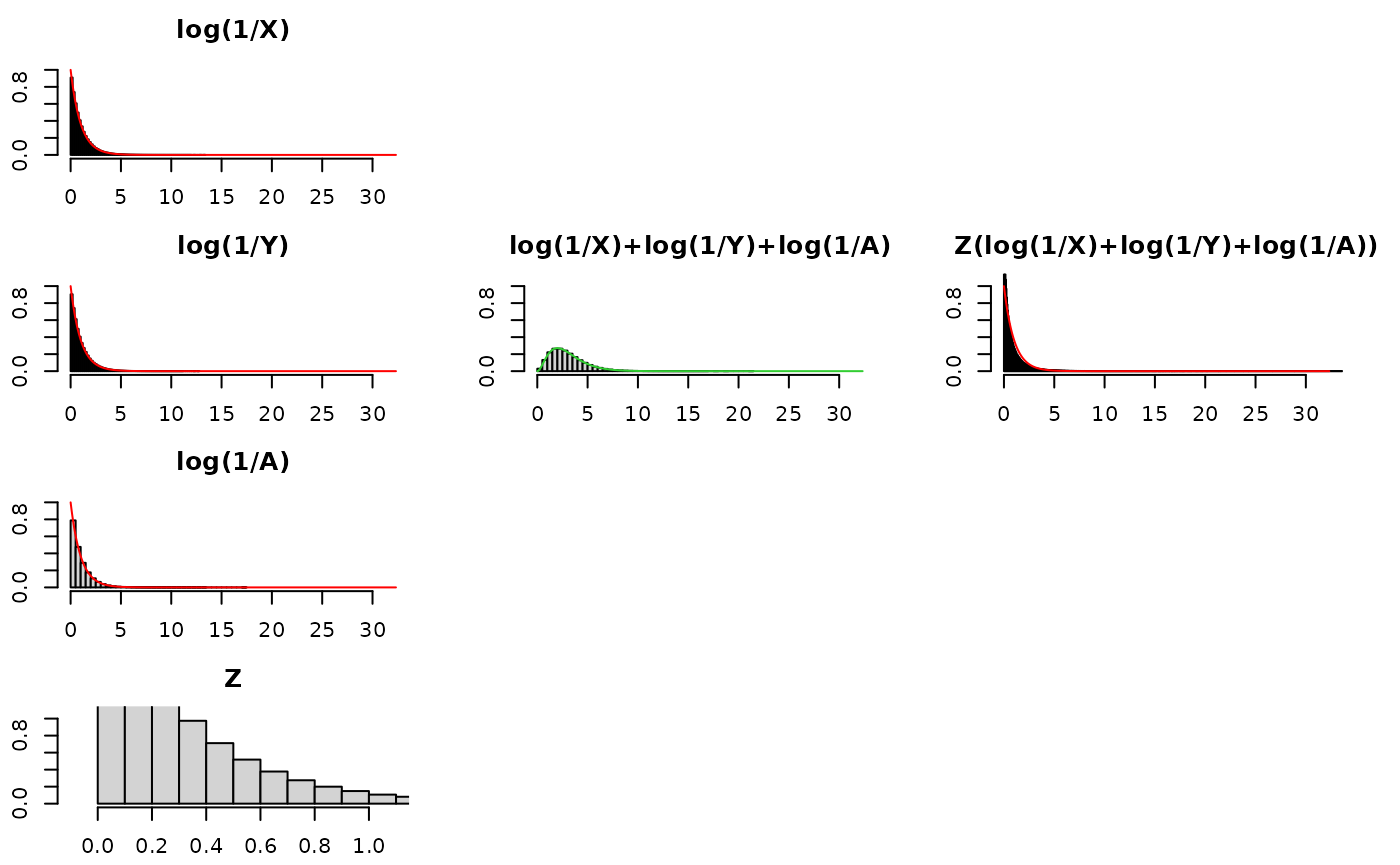
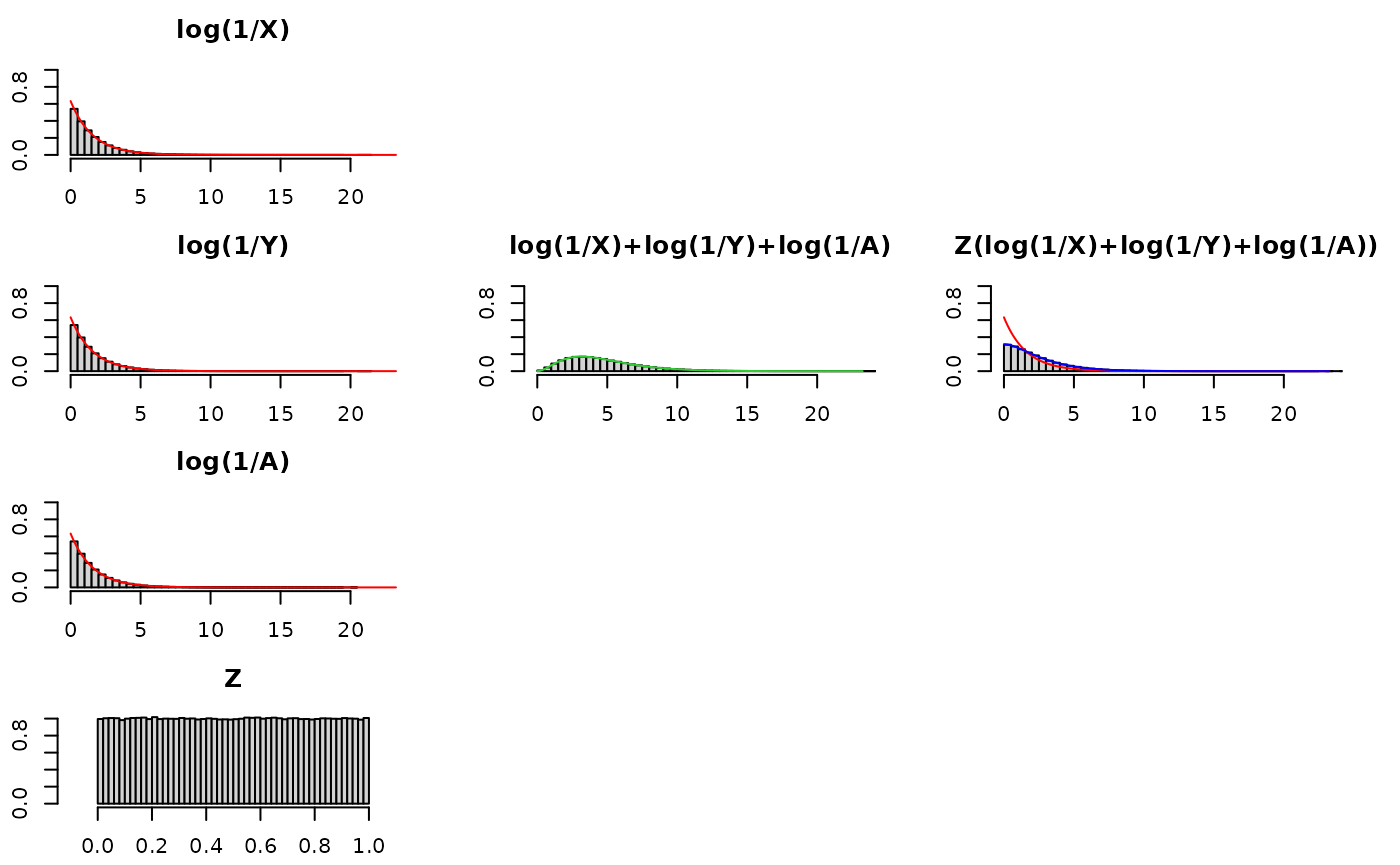
Deploying to gh-pages from @ swihart/mvpd@2e1f89e9200d01a08d54f70d24a79efe4b6bb247 🚀

diff --git a/articles/mvt_mvss_mvcauchy.html b/articles/mvt_mvss_mvcauchy.html
@@ -1,0 +1,158 @@
+<!DOCTYPE html>
+<!-- Generated by pkgdown: do not edit by hand --><html lang="en">
+<head>
+<meta http-equiv="Content-Type" content="text/html; charset=UTF-8">
+<meta charset="utf-8">
+<meta http-equiv="X-UA-Compatible" content="IE=edge">
+<meta name="viewport" content="width=device-width, initial-scale=1, shrink-to-fit=no">
+<title>Why do both the mvt and mvss have a mvcauchy special instance? • mvpd</title>
+<script src="../deps/jquery-3.6.0/jquery-3.6.0.min.js"></script><meta name="viewport" content="width=device-width, initial-scale=1, shrink-to-fit=no">
+<link href="../deps/bootstrap-5.3.1/bootstrap.min.css" rel="stylesheet">
+<script src="../deps/bootstrap-5.3.1/bootstrap.bundle.min.js"></script><link href="../deps/font-awesome-6.5.2/css/all.min.css" rel="stylesheet">
+<link href="../deps/font-awesome-6.5.2/css/v4-shims.min.css" rel="stylesheet">
+<script src="../deps/headroom-0.11.0/headroom.min.js"></script><script src="../deps/headroom-0.11.0/jQuery.headroom.min.js"></script><script src="../deps/bootstrap-toc-1.0.1/bootstrap-toc.min.js"></script><script src="../deps/clipboard.js-2.0.11/clipboard.min.js"></script><script src="../deps/search-1.0.0/autocomplete.jquery.min.js"></script><script src="../deps/search-1.0.0/fuse.min.js"></script><script src="../deps/search-1.0.0/mark.min.js"></script><!-- pkgdown --><script src="../pkgdown.js"></script><meta property="og:title" content="Why do both the mvt and mvss have a mvcauchy special instance?">
+</head>
+<body>
+    <a href="#main" class="visually-hidden-focusable">Skip to contents</a>
+
+
+    <nav class="navbar navbar-expand-lg fixed-top bg-light" data-bs-theme="light" aria-label="Site navigation"><div class="container">
+
+    <a class="navbar-brand me-2" href="../index.html">mvpd</a>
+
+    <small class="nav-text text-muted me-auto" data-bs-toggle="tooltip" data-bs-placement="bottom" title="">0.0.5</small>
+
+
+    <button class="navbar-toggler" type="button" data-bs-toggle="collapse" data-bs-target="#navbar" aria-controls="navbar" aria-expanded="false" aria-label="Toggle navigation">
+      <span class="navbar-toggler-icon"></span>
+    </button>
+
+    <div id="navbar" class="collapse navbar-collapse ms-3">
+      <ul class="navbar-nav me-auto">
+<li class="nav-item"><a class="nav-link" href="../reference/index.html">Reference</a></li>
+<li class="active nav-item dropdown">
+  <button class="nav-link dropdown-toggle" type="button" id="dropdown-articles" data-bs-toggle="dropdown" aria-expanded="false" aria-haspopup="true">Articles</button>
+  <ul class="dropdown-menu" aria-labelledby="dropdown-articles">
+<li><a class="dropdown-item" href="../articles/deep_dive_kolm.html">Deeper Dive: Kolmogorov Distribution, Density, Random Variates</a></li>
+    <li><a class="dropdown-item" href="../articles/intro.html">Introduction and Primer</a></li>
+    <li><a class="dropdown-item" href="../articles/intro1.html">Introduction and Primer II</a></li>
+    <li><a class="dropdown-item" href="../articles/mvt_mvss_mvcauchy.html">Why do both the mvt and mvss have a mvcauchy special instance?</a></li>
+    <li><a class="dropdown-item" href="../articles/xy_to_the_z_part_i.html">(XY)^Z Part I</a></li>
+    <li><a class="dropdown-item" href="../articles/xy_to_the_z_part_ii.html">(XY)^Z Part II</a></li>
+  </ul>
+</li>
+<li class="nav-item"><a class="nav-link" href="../news/index.html">Changelog</a></li>
+      </ul>
+<ul class="navbar-nav">
+<li class="nav-item"><form class="form-inline" role="search">
+ <input class="form-control" type="search" name="search-input" id="search-input" autocomplete="off" aria-label="Search site" placeholder="Search for" data-search-index="../search.json">
+</form></li>
+<li class="nav-item"><a class="external-link nav-link" href="https://github.com/swihart/mvpd/" aria-label="GitHub"><span class="fa fab fa-github fa-lg"></span></a></li>
+      </ul>
+</div>
+
+
+  </div>
+</nav><div class="container template-article">
+
+
+
+
+<div class="row">
+  <main id="main" class="col-md-9"><div class="page-header">
+
+      <h1>Why do both the mvt and mvss have a mvcauchy special instance?</h1>
+                        <h4 data-toc-skip class="author">Bruce J.
+Swihart</h4>
+            
+            <h4 data-toc-skip class="date">2025-05-20</h4>
+      
+      <small class="dont-index">Source: <a href="https://github.com/swihart/mvpd/blob/main/vignettes/articles/mvt_mvss_mvcauchy.Rmd" class="external-link"><code>vignettes/articles/mvt_mvss_mvcauchy.Rmd</code></a></small>
+      <div class="d-none name"><code>mvt_mvss_mvcauchy.Rmd</code></div>
+    </div>
+
+    
+    
+<div class="sourceCode" id="cb1"><pre class="downlit sourceCode r">
+<code class="sourceCode R"><span><span class="kw"><a href="https://rdrr.io/r/base/library.html" class="external-link">library</a></span><span class="op">(</span><span class="va"><a href="https://github.com/swihart/mvpd" class="external-link">mvpd</a></span><span class="op">)</span></span>
+<span></span>
+<span></span>
+<span></span>
+<span></span>
+<span></span>
+<span><span class="va">nu</span> <span class="op">&lt;-</span> <span class="fl">2</span></span>
+<span><span class="va">xdom</span> <span class="op">&lt;-</span> <span class="fu"><a href="https://rdrr.io/r/base/seq.html" class="external-link">seq</a></span><span class="op">(</span><span class="fl">0</span>,<span class="fl">4</span>,<span class="fl">.01</span><span class="op">)</span></span>
+<span><span class="va">yran</span> <span class="op">&lt;-</span> <span class="fu">invgamma</span><span class="fu">::</span><span class="fu"><a href="https://rdrr.io/pkg/invgamma/man/invgamma.html" class="external-link">dinvgamma</a></span><span class="op">(</span><span class="va">xdom</span>, <span class="va">nu</span><span class="op">/</span><span class="fl">2</span>, <span class="va">nu</span><span class="op">/</span><span class="fl">2</span><span class="op">)</span></span>
+<span><span class="va">zran</span> <span class="op">&lt;-</span> <span class="fu">VGAMextra</span><span class="fu">::</span><span class="fu"><a href="https://rdrr.io/pkg/VGAMextra/man/invweibullUC.html" class="external-link">dinvweibull</a></span><span class="op">(</span><span class="va">xdom</span>, scale<span class="op">=</span><span class="fl">1</span>, shape<span class="op">=</span><span class="fl">1</span><span class="op">)</span> <span class="co">##</span></span>
+<span></span>
+<span><span class="fu"><a href="https://rdrr.io/r/graphics/par.html" class="external-link">par</a></span><span class="op">(</span>mfrow<span class="op">=</span><span class="fu"><a href="https://rdrr.io/r/base/c.html" class="external-link">c</a></span><span class="op">(</span><span class="fl">1</span>,<span class="fl">1</span><span class="op">)</span><span class="op">)</span></span>
+<span><span class="fu"><a href="https://rdrr.io/r/graphics/plot.default.html" class="external-link">plot</a></span><span class="op">(</span><span class="va">xdom</span>,<span class="va">yran</span>, type<span class="op">=</span><span class="st">"l"</span>, main<span class="op">=</span></span>
+<span>       <span class="st">"black invgamma(1/2,1/2), blue inverse chisquare(1)</span></span>
+<span><span class="st">        black invgamma(1/2,1/2), green S(,,,,) alpha=1</span></span>
+<span><span class="st">       black invgamma(2/2,2/2), red inverse exponential(1)"</span>,</span>
+<span>     ylim<span class="op">=</span><span class="fu"><a href="https://rdrr.io/r/base/c.html" class="external-link">c</a></span><span class="op">(</span><span class="fl">0</span>,<span class="fl">1</span><span class="op">)</span><span class="op">)</span></span>
+<span><span class="fu"><a href="https://rdrr.io/r/graphics/points.html" class="external-link">points</a></span><span class="op">(</span><span class="va">xdom</span>,<span class="va">zran</span>,col<span class="op">=</span><span class="st">"red"</span><span class="op">)</span></span>
+<span></span>
+<span></span>
+<span><span class="va">nu</span> <span class="op">&lt;-</span> <span class="fl">1</span></span>
+<span><span class="va">xdom</span> <span class="op">&lt;-</span> <span class="fu"><a href="https://rdrr.io/r/base/seq.html" class="external-link">seq</a></span><span class="op">(</span><span class="fl">0</span>,<span class="fl">4</span>,<span class="fl">.01</span><span class="op">)</span></span>
+<span><span class="va">yran</span> <span class="op">&lt;-</span> <span class="fu">invgamma</span><span class="fu">::</span><span class="fu"><a href="https://rdrr.io/pkg/invgamma/man/invgamma.html" class="external-link">dinvgamma</a></span><span class="op">(</span><span class="va">xdom</span>, <span class="va">nu</span><span class="op">/</span><span class="fl">2</span>, <span class="va">nu</span><span class="op">/</span><span class="fl">2</span><span class="op">)</span></span>
+<span><span class="va">zran</span> <span class="op">&lt;-</span> <span class="fu">VGAMextra</span><span class="fu">::</span><span class="fu"><a href="https://rdrr.io/pkg/VGAMextra/man/invchisquaredUC.html" class="external-link">dinv.chisq</a></span><span class="op">(</span><span class="va">xdom</span>, <span class="va">nu</span><span class="op">)</span></span>
+<span><span class="va">aran</span> <span class="op">&lt;-</span> <span class="op">{</span><span class="va">alpha</span><span class="op">&lt;-</span><span class="fl">1</span>; <span class="fu">libstable4u</span><span class="fu">::</span><span class="fu"><a href="https://rdrr.io/pkg/libstable4u/man/stable_pdf_and_cdf.html" class="external-link">stable_pdf</a></span><span class="op">(</span><span class="va">xdom</span>,</span>
+<span>                                pars<span class="op">=</span><span class="fu"><a href="https://rdrr.io/r/base/c.html" class="external-link">c</a></span><span class="op">(</span></span>
+<span>                                  alpha <span class="op">=</span> <span class="va">alpha</span><span class="op">/</span><span class="fl">2</span>,</span>
+<span>                                  beta <span class="op">=</span> <span class="fl">1</span>,</span>
+<span>                                  sigma <span class="op">=</span> <span class="fl">2</span><span class="op">*</span><span class="fu"><a href="https://rdrr.io/r/base/Trig.html" class="external-link">cos</a></span><span class="op">(</span><span class="va">pi</span><span class="op">*</span><span class="va">alpha</span><span class="op">/</span><span class="fl">4</span><span class="op">)</span><span class="op">^</span><span class="op">(</span><span class="fl">2</span><span class="op">/</span><span class="va">alpha</span><span class="op">)</span>,</span>
+<span>                                  mu <span class="op">=</span> <span class="fl">0</span><span class="op">)</span>,</span>
+<span>                                parametrization <span class="op">=</span> <span class="fl">1L</span><span class="op">)</span></span>
+<span><span class="op">}</span></span>
+<span></span>
+<span></span>
+<span></span>
+<span><span class="fu"><a href="https://rdrr.io/r/graphics/par.html" class="external-link">par</a></span><span class="op">(</span>mfrow<span class="op">=</span><span class="fu"><a href="https://rdrr.io/r/base/c.html" class="external-link">c</a></span><span class="op">(</span><span class="fl">1</span>,<span class="fl">1</span><span class="op">)</span><span class="op">)</span></span>
+<span><span class="fu"><a href="https://rdrr.io/r/graphics/lines.html" class="external-link">lines</a></span><span class="op">(</span><span class="va">xdom</span>,<span class="va">yran</span>, type<span class="op">=</span><span class="st">"l"</span>, main<span class="op">=</span><span class="st">"black invgamma, blue inverse chisquare"</span><span class="op">)</span></span>
+<span><span class="fu"><a href="https://rdrr.io/r/graphics/points.html" class="external-link">points</a></span><span class="op">(</span><span class="va">xdom</span>,<span class="va">zran</span>,col<span class="op">=</span><span class="st">"blue"</span><span class="op">)</span></span>
+<span><span class="fu"><a href="https://rdrr.io/r/graphics/points.html" class="external-link">points</a></span><span class="op">(</span><span class="va">xdom</span>,<span class="va">aran</span>, col<span class="op">=</span><span class="st">"darkgreen"</span><span class="op">)</span></span>
+<span></span>
+<span><span class="va">nu</span> <span class="op">&lt;-</span> <span class="fl">3</span></span>
+<span><span class="va">yran</span> <span class="op">&lt;-</span> <span class="fu">invgamma</span><span class="fu">::</span><span class="fu"><a href="https://rdrr.io/pkg/invgamma/man/invgamma.html" class="external-link">dinvgamma</a></span><span class="op">(</span><span class="va">xdom</span>, <span class="va">nu</span><span class="op">/</span><span class="fl">2</span>, <span class="va">nu</span><span class="op">/</span><span class="fl">2</span><span class="op">)</span></span>
+<span></span>
+<span><span class="fu"><a href="https://rdrr.io/r/graphics/lines.html" class="external-link">lines</a></span><span class="op">(</span><span class="va">xdom</span>,<span class="va">yran</span>, type<span class="op">=</span><span class="st">"l"</span>, main<span class="op">=</span><span class="st">"black invgamma, blue inverse chisquare"</span><span class="op">)</span></span>
+<span><span class="fu"><a href="https://rdrr.io/r/graphics/points.html" class="external-link">points</a></span><span class="op">(</span><span class="va">xdom</span>,<span class="va">yran</span>,col<span class="op">=</span><span class="st">"purple"</span><span class="op">)</span></span>
+<span></span>
+<span></span>
+<span><span class="va">nu</span> <span class="op">&lt;-</span> <span class="fl">35</span></span>
+<span><span class="va">yran</span> <span class="op">&lt;-</span> <span class="fu">invgamma</span><span class="fu">::</span><span class="fu"><a href="https://rdrr.io/pkg/invgamma/man/invgamma.html" class="external-link">dinvgamma</a></span><span class="op">(</span><span class="va">xdom</span>, <span class="va">nu</span><span class="op">/</span><span class="fl">2</span>, <span class="va">nu</span><span class="op">/</span><span class="fl">2</span><span class="op">)</span></span>
+<span></span>
+<span><span class="fu"><a href="https://rdrr.io/r/graphics/lines.html" class="external-link">lines</a></span><span class="op">(</span><span class="va">xdom</span>,<span class="va">yran</span>, type<span class="op">=</span><span class="st">"l"</span>, main<span class="op">=</span><span class="st">"black invgamma, blue inverse chisquare"</span><span class="op">)</span></span>
+<span><span class="fu"><a href="https://rdrr.io/r/graphics/points.html" class="external-link">points</a></span><span class="op">(</span><span class="va">xdom</span>,<span class="va">yran</span>,col<span class="op">=</span><span class="st">"gold"</span><span class="op">)</span></span>
+<span></span>
+<span><span class="va">nu</span> <span class="op">&lt;-</span> <span class="fl">3500</span></span>
+<span><span class="va">yran</span> <span class="op">&lt;-</span> <span class="fu">invgamma</span><span class="fu">::</span><span class="fu"><a href="https://rdrr.io/pkg/invgamma/man/invgamma.html" class="external-link">dinvgamma</a></span><span class="op">(</span><span class="va">xdom</span>, <span class="va">nu</span><span class="op">/</span><span class="fl">2</span>, <span class="va">nu</span><span class="op">/</span><span class="fl">2</span><span class="op">)</span></span>
+<span></span>
+<span><span class="fu"><a href="https://rdrr.io/r/graphics/lines.html" class="external-link">lines</a></span><span class="op">(</span><span class="va">xdom</span>,<span class="va">yran</span>, type<span class="op">=</span><span class="st">"l"</span>, main<span class="op">=</span><span class="st">"black invgamma, blue inverse chisquare"</span><span class="op">)</span></span>
+<span><span class="fu"><a href="https://rdrr.io/r/graphics/points.html" class="external-link">points</a></span><span class="op">(</span><span class="va">xdom</span>,<span class="va">yran</span>,col<span class="op">=</span><span class="st">"brown"</span><span class="op">)</span></span></code></pre></div>
+<p><img src="mvt_mvss_mvcauchy_files/figure-html/setup-1.png" width="700"></p>
+  </main><aside class="col-md-3"><nav id="toc" aria-label="Table of contents"><h2>On this page</h2>
+    </nav></aside>
+</div>
+
+
+
+    <footer><div class="pkgdown-footer-left">
+  <p>Developed by Bruce Swihart.</p>
+</div>
+
+<div class="pkgdown-footer-right">
+  <p>Site built with <a href="https://pkgdown.r-lib.org/" class="external-link">pkgdown</a> 2.1.2.</p>
+</div>
+
+    </footer>
+</div>
+
+
+
+
+
+  </body>
+</html>

diff --git a/articles/xy_to_the_z_part_i.html b/articles/xy_to_the_z_part_i.html
@@ -36,6 +36,7 @@
 <li><a class="dropdown-item" href="../articles/deep_dive_kolm.html">Deeper Dive: Kolmogorov Distribution, Density, Random Variates</a></li>
     <li><a class="dropdown-item" href="../articles/intro.html">Introduction and Primer</a></li>
     <li><a class="dropdown-item" href="../articles/intro1.html">Introduction and Primer II</a></li>
+    <li><a class="dropdown-item" href="../articles/mvt_mvss_mvcauchy.html">Why do both the mvt and mvss have a mvcauchy special instance?</a></li>
     <li><a class="dropdown-item" href="../articles/xy_to_the_z_part_i.html">(XY)^Z Part I</a></li>
     <li><a class="dropdown-item" href="../articles/xy_to_the_z_part_ii.html">(XY)^Z Part II</a></li>
   </ul>
@@ -416,8 +417,8 @@ look like if we replaced <code>z&lt;-runif(nsims, 0, 1)</code> with
 <code>z&lt;-runif(nsims, -1, 2)</code> in the code. The mean of Z is
 1/2. However, Z is not bounded between 0 and 1. Hypothesis: even though
 this Z will “1/2 on average” it fails to recover the distribution
-log(1/X) because values bigger than 1 fail to “tighten” the
-distribution. Compounding the problem is values below 0 (negative
+log(1/X) because Z values bigger than 1 fail to “tighten” the
+distribution. Compounding the problem is that Z values below 0 (negative
 values) flip/reflect values across the y-axis. See below:</p>
 <p><img src="xy_to_the_z_part_i_files/figure-html/unnamed-chunk-15-1.png" width="700"></p>
 <hr>
@@ -491,20 +492,23 @@ Z converges on 1 and the distributions look more similar</li>
 <p>Let’s see what the resultant Z(log(1/X)+log(1/Y)+log(1/A))
 distribution would look like.</p>
 <p><img src="xy_to_the_z_part_i_files/figure-html/unnamed-chunk-18-1.png" width="700"></p>
-<p>It looks like we need more tightening. Instead of multiplying by 1/2
-on average, we need to multiply by 1/3 on average. We need Z uniform,
-with positive values smaller than 1 that average to a 1/3. Let’s replace
+<p>It looks like we need more tightening. Let’s tinker. Instead of
+multiplying by 1/2 on average, perhaps we need to multiply by 1/3 on
+average? Let’s leave Z as a uniform, with positive values smaller than 1
+that average to a 1/3. Let’s replace
 <code>z&lt;-runif(nsims, 0, 1)</code> with
 <code>z&lt;-runif(nsims, 0, 2/3)</code> in the code:</p>
 <pre><code><span><span class="co">#&gt; [1] 0.333627</span></span></code></pre>
 <p><img src="xy_to_the_z_part_i_files/figure-html/unnamed-chunk-19-1.png" width="700"></p>
-<p>Doesn’t quite seem to do it. That’s because the sum of 2 exponential
-is not an exponential, so certainly a sum of 3 exponentials is not going
-to be an exponential. In fact, looking at the <a href="https://math.stackexchange.com/a/3485159/180716" class="external-link">inductive
-form</a>, Z may not have a “recovering” distribution for a sum of more
-than 2 exponentials.</p>
+<p>While that was fun, this modification (shortening the range of the
+uniform) does not quite seem to “recover” the distribution of
+log(1/x).</p>
+<p>This is where turning to theory might save us some time.</p>
+<p>The sum of 3 iid
+Exponential(<math display="inline" xmlns="http://www.w3.org/1998/Math/MathML"><semantics><mi>α</mi><annotation encoding="application/x-tex">\alpha</annotation></semantics></math>)
+variables will be distributed as Gamma(3,alpha).</p>
 <p>If Q ~ Gamma(3,alpha) then what do we multiply by Q to get an
-exponential?</p>
+exponential? A: P</p>
 <blockquote>
 <p>A Gamma distribution times a Gamma distribution will result in an
 exponential distribution if the shape parameter of both Gamma
@@ -523,8 +527,8 @@ is equal to
 <math display="inline" xmlns="http://www.w3.org/1998/Math/MathML"><semantics><mrow><mi>E</mi><mi>x</mi><mi>p</mi><mi>o</mi><mi>n</mi><mi>e</mi><mi>n</mi><mi>t</mi><mi>i</mi><mi>a</mi><mi>l</mi><mrow><mo stretchy="true" form="prefix">(</mo><mi>α</mi><mo stretchy="true" form="postfix">)</mo></mrow></mrow><annotation encoding="application/x-tex">Exponential(\alpha )</annotation></semantics></math>.</p>
 </blockquote>
 <p>One can tinker and see how close they can get but the theory says it
-will be in exact.</p>
-<pre><code><span><span class="co">#&gt; [1] 0.3000795</span></span></code></pre>
+will be inexact.</p>
+<pre><code><span><span class="co">#&gt; [1] 0.4998502</span></span></code></pre>
 <p><img src="xy_to_the_z_part_i_files/figure-html/unnamed-chunk-20-1.png" width="700"></p>
 <div class="section level4">
 <h4 id="miscellany-notes-to-self-stubs-for-future-ideas">Miscellany / Notes to self / Stubs for future ideas<a class="anchor" aria-label="anchor" href="#miscellany-notes-to-self-stubs-for-future-ideas"></a>
@@ -536,6 +540,9 @@ of -ln(X) being an Exponential</a></p></li>
 transformation of beta relevant for a=0, b=1?</a></p></li>
 <li><p><a href="https://stats.stackexchange.com/a/461337/35034" class="external-link">Keep in
 back pocket for generalizing Uniform…U(-1,1)</a></p></li>
+<li><p>Looking at the <a href="https://math.stackexchange.com/a/3485159/180716" class="external-link">inductive
+form</a>, may provide insight as to why Z may not have a “recovering”
+distribution for a sum of more than 2 exponentials.</p></li>
 </ul>
 </div>
 </div>

diff --git a/articles/deep_dive_kolm.html b/articles/deep_dive_kolm.html
@@ -36,6 +36,7 @@
 <li><a class="dropdown-item" href="../articles/deep_dive_kolm.html">Deeper Dive: Kolmogorov Distribution, Density, Random Variates</a></li>
     <li><a class="dropdown-item" href="../articles/intro.html">Introduction and Primer</a></li>
     <li><a class="dropdown-item" href="../articles/intro1.html">Introduction and Primer II</a></li>
+    <li><a class="dropdown-item" href="../articles/mvt_mvss_mvcauchy.html">Why do both the mvt and mvss have a mvcauchy special instance?</a></li>
     <li><a class="dropdown-item" href="../articles/xy_to_the_z_part_i.html">(XY)^Z Part I</a></li>
     <li><a class="dropdown-item" href="../articles/xy_to_the_z_part_ii.html">(XY)^Z Part II</a></li>
   </ul>
@@ -350,7 +351,7 @@ the denominators, and then take the square root of that sum.</p>
 <span><span class="va">rkdraw</span> <span class="op">&lt;-</span> <span class="fu"><a href="../reference/rkolm.html">rkolm</a></span><span class="op">(</span><span class="fl">5e4</span>, nterms<span class="op">=</span><span class="fl">5e2</span><span class="op">)</span></span>
 <span><span class="va">end</span> <span class="op">&lt;-</span> <span class="fu"><a href="https://rdrr.io/r/base/Sys.time.html" class="external-link">Sys.time</a></span><span class="op">(</span><span class="op">)</span></span>
 <span><span class="va">end</span><span class="op">-</span><span class="va">beg</span></span>
-<span><span class="co">#&gt; Time difference of 0.8786781 secs</span></span>
+<span><span class="co">#&gt; Time difference of 0.8992646 secs</span></span>
 <span></span>
 <span><span class="co">## Expected value</span></span>
 <span><span class="fu"><a href="https://rdrr.io/r/base/print.html" class="external-link">print</a></span><span class="op">(</span><span class="fu"><a href="https://rdrr.io/r/base/matrix.html" class="external-link">matrix</a></span><span class="op">(</span><span class="fu"><a href="https://rdrr.io/r/base/c.html" class="external-link">c</a></span><span class="op">(</span></span>

diff --git a/articles/index.html b/articles/index.html
@@ -21,6 +21,7 @@
   <ul class="dropdown-menu" aria-labelledby="dropdown-articles"><li><a class="dropdown-item" href="../articles/deep_dive_kolm.html">Deeper Dive: Kolmogorov Distribution, Density, Random Variates</a></li>
     <li><a class="dropdown-item" href="../articles/intro.html">Introduction and Primer</a></li>
     <li><a class="dropdown-item" href="../articles/intro1.html">Introduction and Primer II</a></li>
+    <li><a class="dropdown-item" href="../articles/mvt_mvss_mvcauchy.html">Why do both the mvt and mvss have a mvcauchy special instance?</a></li>
     <li><a class="dropdown-item" href="../articles/xy_to_the_z_part_i.html">(XY)^Z Part I</a></li>
     <li><a class="dropdown-item" href="../articles/xy_to_the_z_part_ii.html">(XY)^Z Part II</a></li>
   </ul></li>
@@ -48,6 +49,8 @@
         </dd><dt><a href="intro.html">Introduction and Primer</a></dt>
         <dd>
         </dd><dt><a href="intro1.html">Introduction and Primer II</a></dt>
+        <dd>
+        </dd><dt><a href="mvt_mvss_mvcauchy.html">Why do both the mvt and mvss have a mvcauchy special instance?</a></dt>
         <dd>
         </dd><dt><a href="xy_to_the_z_part_i.html">(XY)^Z Part I</a></dt>
         <dd>

diff --git a/404.html b/404.html
@@ -36,6 +36,7 @@
 <li><a class="dropdown-item" href="https://swihart.github.io/mvpd/articles/deep_dive_kolm.html">Deeper Dive: Kolmogorov Distribution, Density, Random Variates</a></li>
     <li><a class="dropdown-item" href="https://swihart.github.io/mvpd/articles/intro.html">Introduction and Primer</a></li>
     <li><a class="dropdown-item" href="https://swihart.github.io/mvpd/articles/intro1.html">Introduction and Primer II</a></li>
+    <li><a class="dropdown-item" href="https://swihart.github.io/mvpd/articles/mvt_mvss_mvcauchy.html">Why do both the mvt and mvss have a mvcauchy special instance?</a></li>
     <li><a class="dropdown-item" href="https://swihart.github.io/mvpd/articles/xy_to_the_z_part_i.html">(XY)^Z Part I</a></li>
     <li><a class="dropdown-item" href="https://swihart.github.io/mvpd/articles/xy_to_the_z_part_ii.html">(XY)^Z Part II</a></li>
   </ul>

diff --git a/reference/adaptIntegrate_inf_limPD.html b/reference/adaptIntegrate_inf_limPD.html
@@ -27,6 +27,7 @@ appropriately as described in cubature's help page (http://ab-initio.mit.edu/wik
   <ul class="dropdown-menu" aria-labelledby="dropdown-articles"><li><a class="dropdown-item" href="../articles/deep_dive_kolm.html">Deeper Dive: Kolmogorov Distribution, Density, Random Variates</a></li>
     <li><a class="dropdown-item" href="../articles/intro.html">Introduction and Primer</a></li>
     <li><a class="dropdown-item" href="../articles/intro1.html">Introduction and Primer II</a></li>
+    <li><a class="dropdown-item" href="../articles/mvt_mvss_mvcauchy.html">Why do both the mvt and mvss have a mvcauchy special instance?</a></li>
     <li><a class="dropdown-item" href="../articles/xy_to_the_z_part_i.html">(XY)^Z Part I</a></li>
     <li><a class="dropdown-item" href="../articles/xy_to_the_z_part_ii.html">(XY)^Z Part II</a></li>
   </ul></li>

diff --git a/reference/mvpd.html b/reference/mvpd.html
@@ -47,6 +47,7 @@ distribution theory is applied for implementing their computation."></head><body
   <ul class="dropdown-menu" aria-labelledby="dropdown-articles"><li><a class="dropdown-item" href="../articles/deep_dive_kolm.html">Deeper Dive: Kolmogorov Distribution, Density, Random Variates</a></li>
     <li><a class="dropdown-item" href="../articles/intro.html">Introduction and Primer</a></li>
     <li><a class="dropdown-item" href="../articles/intro1.html">Introduction and Primer II</a></li>
+    <li><a class="dropdown-item" href="../articles/mvt_mvss_mvcauchy.html">Why do both the mvt and mvss have a mvcauchy special instance?</a></li>
     <li><a class="dropdown-item" href="../articles/xy_to_the_z_part_i.html">(XY)^Z Part I</a></li>
     <li><a class="dropdown-item" href="../articles/xy_to_the_z_part_ii.html">(XY)^Z Part II</a></li>
   </ul></li>

diff --git a/reference/pmvss_mc.html b/reference/pmvss_mc.html
@@ -25,6 +25,7 @@ location vectors via Monte Carlo (thus the suffix _mc)."></head><body>
   <ul class="dropdown-menu" aria-labelledby="dropdown-articles"><li><a class="dropdown-item" href="../articles/deep_dive_kolm.html">Deeper Dive: Kolmogorov Distribution, Density, Random Variates</a></li>
     <li><a class="dropdown-item" href="../articles/intro.html">Introduction and Primer</a></li>
     <li><a class="dropdown-item" href="../articles/intro1.html">Introduction and Primer II</a></li>
+    <li><a class="dropdown-item" href="../articles/mvt_mvss_mvcauchy.html">Why do both the mvt and mvss have a mvcauchy special instance?</a></li>
     <li><a class="dropdown-item" href="../articles/xy_to_the_z_part_i.html">(XY)^Z Part I</a></li>
     <li><a class="dropdown-item" href="../articles/xy_to_the_z_part_ii.html">(XY)^Z Part II</a></li>
   </ul></li>

diff --git a/reference/rmvlogis.html b/reference/rmvlogis.html
@@ -25,6 +25,7 @@ Kolmogorov distribution – see references."></head><body>
   <ul class="dropdown-menu" aria-labelledby="dropdown-articles"><li><a class="dropdown-item" href="../articles/deep_dive_kolm.html">Deeper Dive: Kolmogorov Distribution, Density, Random Variates</a></li>
     <li><a class="dropdown-item" href="../articles/intro.html">Introduction and Primer</a></li>
     <li><a class="dropdown-item" href="../articles/intro1.html">Introduction and Primer II</a></li>
+    <li><a class="dropdown-item" href="../articles/mvt_mvss_mvcauchy.html">Why do both the mvt and mvss have a mvcauchy special instance?</a></li>
     <li><a class="dropdown-item" href="../articles/xy_to_the_z_part_i.html">(XY)^Z Part I</a></li>
     <li><a class="dropdown-item" href="../articles/xy_to_the_z_part_ii.html">(XY)^Z Part II</a></li>
   </ul></li>

diff --git a/reference/fit_mvss.html b/reference/fit_mvss.html
@@ -25,6 +25,7 @@ distribution for an input matrix X."></head><body>
   <ul class="dropdown-menu" aria-labelledby="dropdown-articles"><li><a class="dropdown-item" href="../articles/deep_dive_kolm.html">Deeper Dive: Kolmogorov Distribution, Density, Random Variates</a></li>
     <li><a class="dropdown-item" href="../articles/intro.html">Introduction and Primer</a></li>
     <li><a class="dropdown-item" href="../articles/intro1.html">Introduction and Primer II</a></li>
+    <li><a class="dropdown-item" href="../articles/mvt_mvss_mvcauchy.html">Why do both the mvt and mvss have a mvcauchy special instance?</a></li>
     <li><a class="dropdown-item" href="../articles/xy_to_the_z_part_i.html">(XY)^Z Part I</a></li>
     <li><a class="dropdown-item" href="../articles/xy_to_the_z_part_ii.html">(XY)^Z Part II</a></li>
   </ul></li>

diff --git a/reference/rmvss.html b/reference/rmvss.html
@@ -25,6 +25,7 @@ location vectors. See Nolan (2013)."></head><body>
   <ul class="dropdown-menu" aria-labelledby="dropdown-articles"><li><a class="dropdown-item" href="../articles/deep_dive_kolm.html">Deeper Dive: Kolmogorov Distribution, Density, Random Variates</a></li>
     <li><a class="dropdown-item" href="../articles/intro.html">Introduction and Primer</a></li>
     <li><a class="dropdown-item" href="../articles/intro1.html">Introduction and Primer II</a></li>
+    <li><a class="dropdown-item" href="../articles/mvt_mvss_mvcauchy.html">Why do both the mvt and mvss have a mvcauchy special instance?</a></li>
     <li><a class="dropdown-item" href="../articles/xy_to_the_z_part_i.html">(XY)^Z Part I</a></li>
     <li><a class="dropdown-item" href="../articles/xy_to_the_z_part_ii.html">(XY)^Z Part II</a></li>
   </ul></li>

diff --git a/reference/dmvt_mat.html b/reference/dmvt_mat.html
@@ -25,6 +25,7 @@ See Swihart and Nolan (2022)."></head><body>
   <ul class="dropdown-menu" aria-labelledby="dropdown-articles"><li><a class="dropdown-item" href="../articles/deep_dive_kolm.html">Deeper Dive: Kolmogorov Distribution, Density, Random Variates</a></li>
     <li><a class="dropdown-item" href="../articles/intro.html">Introduction and Primer</a></li>
     <li><a class="dropdown-item" href="../articles/intro1.html">Introduction and Primer II</a></li>
+    <li><a class="dropdown-item" href="../articles/mvt_mvss_mvcauchy.html">Why do both the mvt and mvss have a mvcauchy special instance?</a></li>
     <li><a class="dropdown-item" href="../articles/xy_to_the_z_part_i.html">(XY)^Z Part I</a></li>
     <li><a class="dropdown-item" href="../articles/xy_to_the_z_part_ii.html">(XY)^Z Part II</a></li>
   </ul></li>
